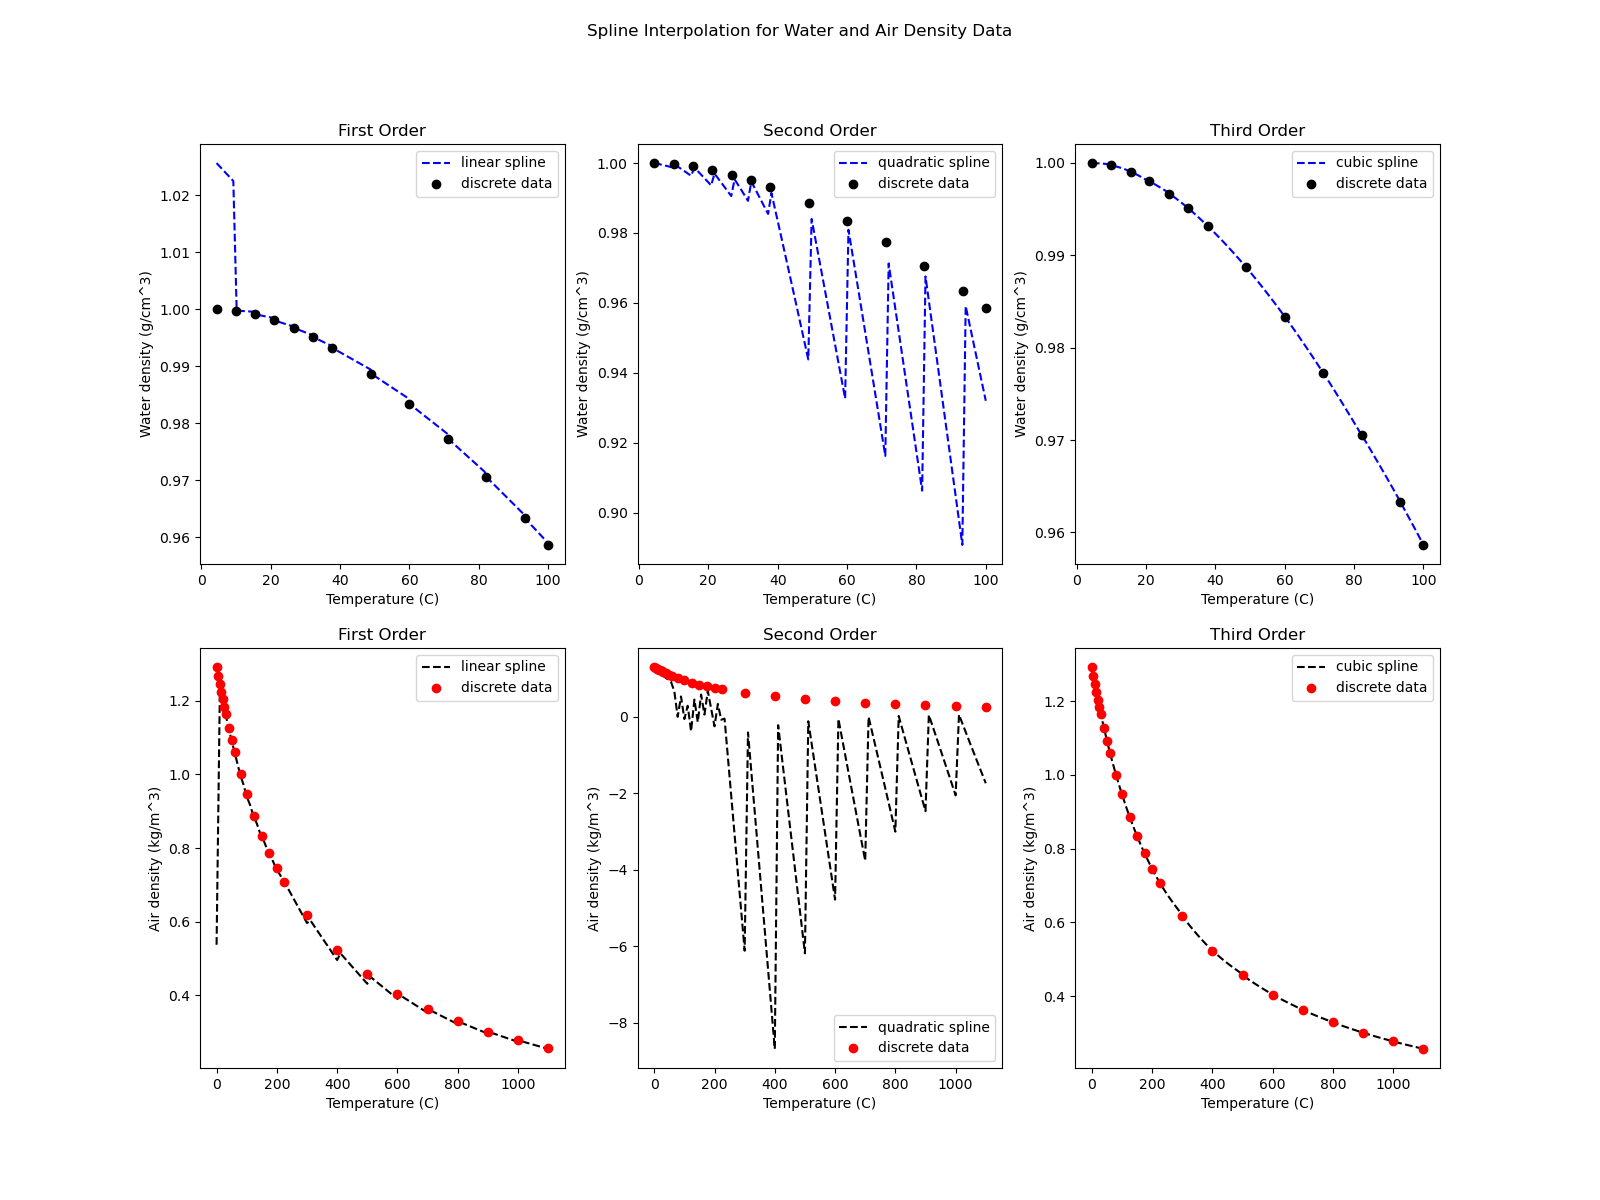
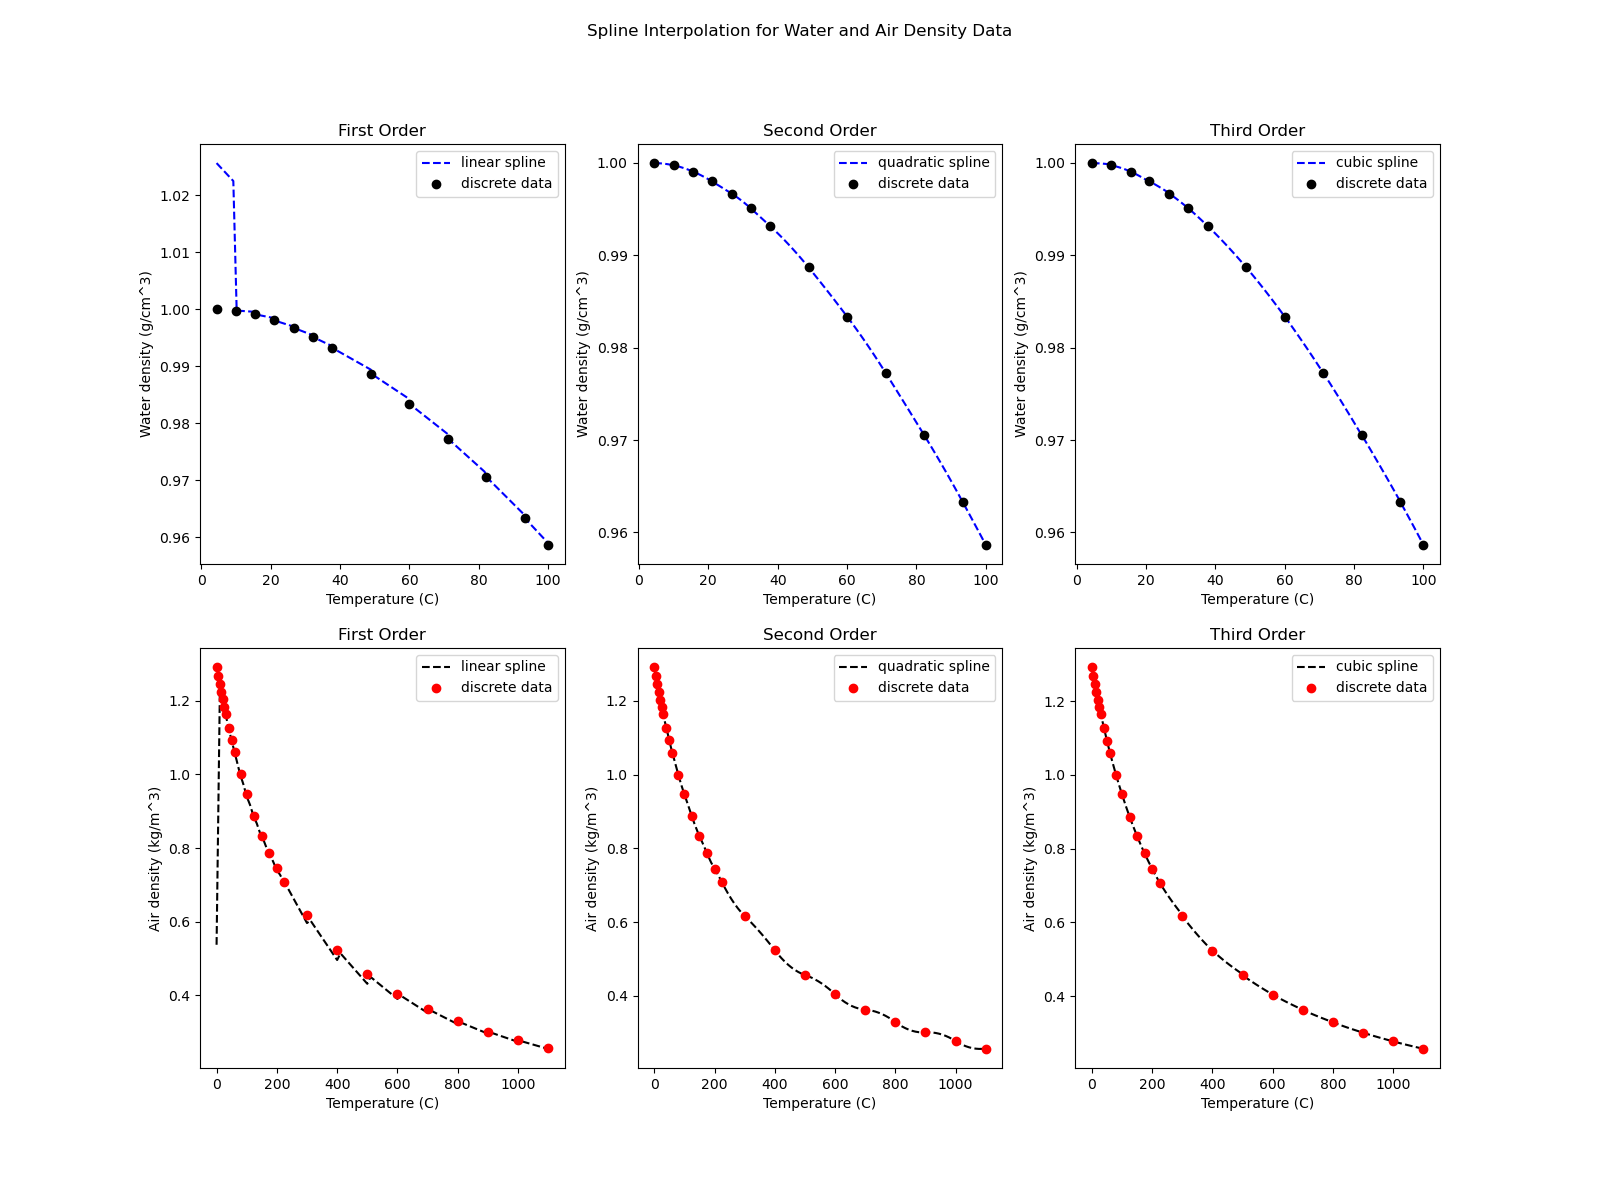
fixed quadratic spline function

diff --git a/tests/test_spline_function.py b/tests/test_spline_function.py
@@ -64,7 +64,7 @@ def test_spline_function():
     axs[1].set_ylabel('y')
 
     axs[0].plot(xd, y_scipy, 'b', label = 'scipy interpolation')
-    axs[1].plot(xd, y_spline, 'm', label = 'GOPH419 spline_function')
+    axs[1].plot(xd, y_spline, 'm', label = 'GOPH419 cubic spline_function')
 
     fig.suptitle('Scipy Univariate Spline Function vs GOPH419 Spline Function')
     fig.set_label('y')

diff --git a/src/lab02/linalg_interp.py b/src/lab02/linalg_interp.py
@@ -233,7 +233,7 @@ def spline_function(xd, yd, order = 3):
             # determine coefficients
             c = np.linalg.solve(A, rhs)
             # c = gauss_iter_solver(A, rhs)
-            b = diff_y - (c * diff_x)
+            b = div_dif1 - (c * diff_x)
             a = yd[:-1]
             # calculate spline functions
             for xi in x:
